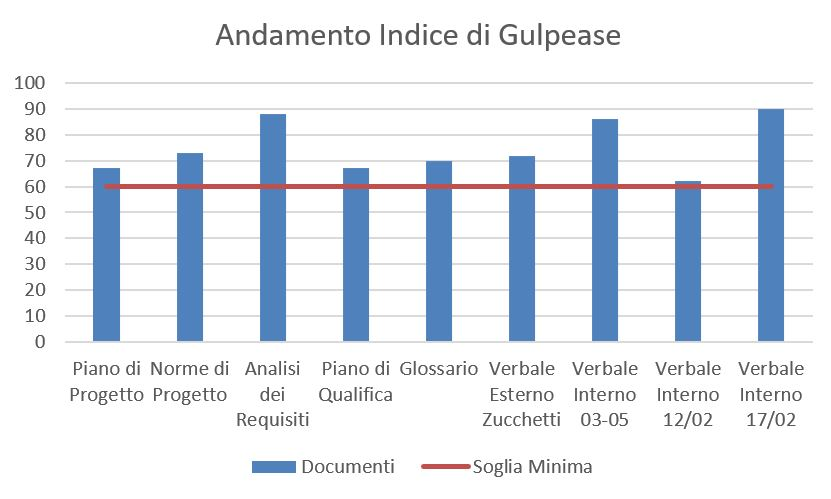
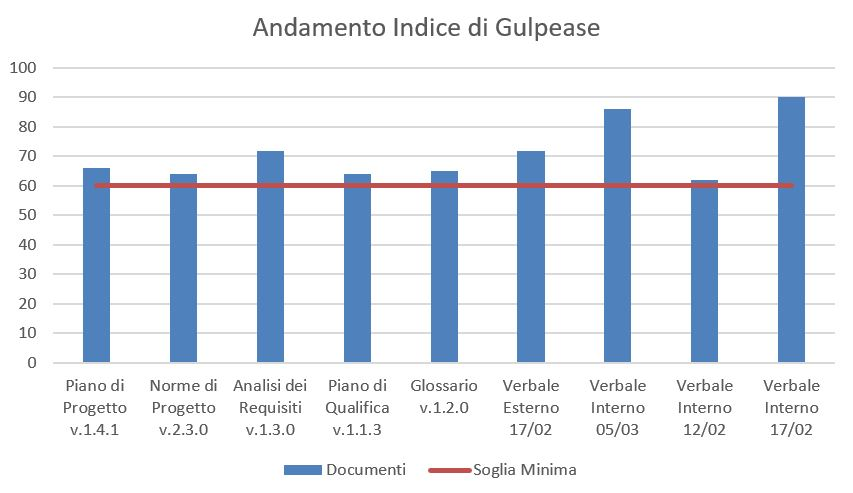
aggiornati test

diff --git a/esterni/piano_di_qualifica/src/5_resoconto_attivita.tex b/esterni/piano_di_qualifica/src/5_resoconto_attivita.tex
@@ -83,7 +83,7 @@ Abbiamo inoltre compreso la necessità di pianificare meglio le nostre attività
 
 \subsection{Secondo periodo (RP)}
 \label{sub:periodo-RP}
-\paragraph{Risultati test fase di progettazione architetturale}
+\paragraph{Risultati test fase di progettazione e codifica della technology baseline}
 Qui di seguito verranno presentati i resoconti relativi ai controlli di qualità effettuati nella fase di progettazione. \par
 
 \begin{table}[!ht]
@@ -102,12 +102,12 @@ Qui di seguito verranno presentati i resoconti relativi ai controlli di qualità
 		OPR08 Rispetto obiettivi      			& MPR08 Obiettivi soddisfatti   & 100\%                                 & 100\%                	& Superato      \\
 		OPR09 Rispetto delle norme   			& MPR09 Norme rispettate        & 100\%                                 & 100\%                	& Superato      \\
 		OPR12 Verifica documenti      			& MPR10 Frequenza controllo     & Ogni Milestone e modifica         	& Ogni Milestone       	& Superato      \\
-		OP01 Leggibilità testo       			& MP01 Indice di Gulpease      	& 72                        			& \(\ge 60\)           	& Superato      \\
+		OP01 Leggibilità testo       			& MP01 Indice di Gulpease      	& 71                        			& \(\ge 60\)           	& Superato      \\
 		OP02 Correttezza ortografica 			& MP02 Errori ortografici      	& 0                                     & 0                    	& Superato      \\
 		OP05 Assenza file senza intestazione	& MP05 File senza intestazione 	& 0										& 0						& Superato		\\
 		\hline
 	\end{tabular}
-	\caption{Esiti test fase di progettazione architetturale}
+	\caption{Esiti test fase di progettazione e codifica della technology baseline}
 \end{table}
 
 \subsection{Esiti verifica indici di Gulpease}
@@ -135,10 +135,10 @@ Qui di seguito verranno presentati i resoconti relativi ai controlli di qualità
 		\endlastfoot
 
 		Analisi Dei Requisiti v1.3.0       & 72                 & Superato       \\
-		Piano di Progetto v1.4.1           & 67                 & Superato       \\
-		Piano di Qualifica v1.1.3          & 63                 & Superato       \\
-		Norme di Progetto v2.3.0           & 73                 & Superato       \\
-		Glossario v1.1.0                   & 64                 & Superato       \\
+		Piano di Progetto v1.4.1           & 66                 & Superato       \\
+		Piano di Qualifica v1.1.3          & 64                 & Superato       \\
+		Norme di Progetto v2.3.0           & 64                 & Superato       \\
+		Glossario v1.1.0                   & 65                 & Superato       \\
 		Verbale Interno 2021-03-05 v1.0.0  & 86                 & Superato       \\
 		Verbale Interno 2021-02-12 v1.0.0  & 62                 & Superato       \\
 		Verbale Interno 2021-02-17 v1.0.0  & 90                 & Superato       \\
@@ -151,7 +151,7 @@ Qui di seguito verranno presentati i resoconti relativi ai controlli di qualità
 \begin{figure}[H]
 \centering
 \includegraphics[width=12cm]{img/media_gul_RP.jpg}
-\caption{ Andamento Indice di Gulpease in fase di progettazione}
+\caption{ Andamento Indice di Gulpease in fase di progettazione e codifica della technology baseline}
 \end{figure}
 
 

diff --git a/esterni/piano_di_qualifica/piano_di_qualifica.tex b/esterni/piano_di_qualifica/piano_di_qualifica.tex
@@ -38,7 +38,7 @@
   v1.1.3 & Paparazzo Giorgia & Verificatore & 2021-03-10 & Modifica \S\ref{sub:periodo-RP}  \\
   v1.1.2 & Paparazzo Giorgia & Verificatore & 2021-02-25 & Modifica \S\ref{sec:spectest} \\
   v1.1.1 & Paparazzo Giorgia & Verificatore & 2021-02-21 & Modifica \S\ref{sec:qproc}, \S\ref{sec:qprod}, \S\ref{sec:resoconto} secondo VI 2021-02-12 \\
-  v1.1.0 & Paparazzo Giorgia & Verificatore & 2021-02-14 & Aggiunta \S\ref{sub:periodo-RR}, \S\ref{sub:retrospettiva} come suggerito in sede di valutazione \\
+  v1.1.0 & Paparazzo Giorgia & Verificatore & 2021-02-14 & Aggiunta \S\ref{sub:periodo-RR}, \S\ref{sub:retrospettiva}, aggiornato \S\ref{sub:riferimenti}, come suggerito in sede di valutazione \\
   v1.0.0 & Masevski Martin & Responsabile & 2021-01-18 & Approvazione documento \\
   v0.1.2 & Paparazzo Giorgia & Verificatore & 2021-01-18 & Modifica \S\ref{sec:spectest} \\
   v0.1.1 & Paparazzo Giorgia & Verificatore & 2021-01-15 & Modifica \S\ref{sec:valutazioni} \\

diff --git a/esterni/piano_di_qualifica/src/1_introduzione.tex b/esterni/piano_di_qualifica/src/1_introduzione.tex
@@ -15,6 +15,7 @@ Il capitolato C4 - \emph{HD Viz} nasce dalla necessità di trasformare grosse mo
 All'interno del documento ci sono termini che potrebbero presentare significati ambigui o incongruenti a seconda del contesto. Per evitare incomprensioni viene fornito un documento \textsc{Glossario v1.0.0} contenente la spiegazione dei termini. Queste parole sono contrassegnate con una "G" a pedice ad ogni prima occorrenza del termine.
 
 \subsection{Riferimenti}
+\label{sub:riferimenti}
 
 \subsubsection{Riferimenti normativi}
 \begin{itemize}
